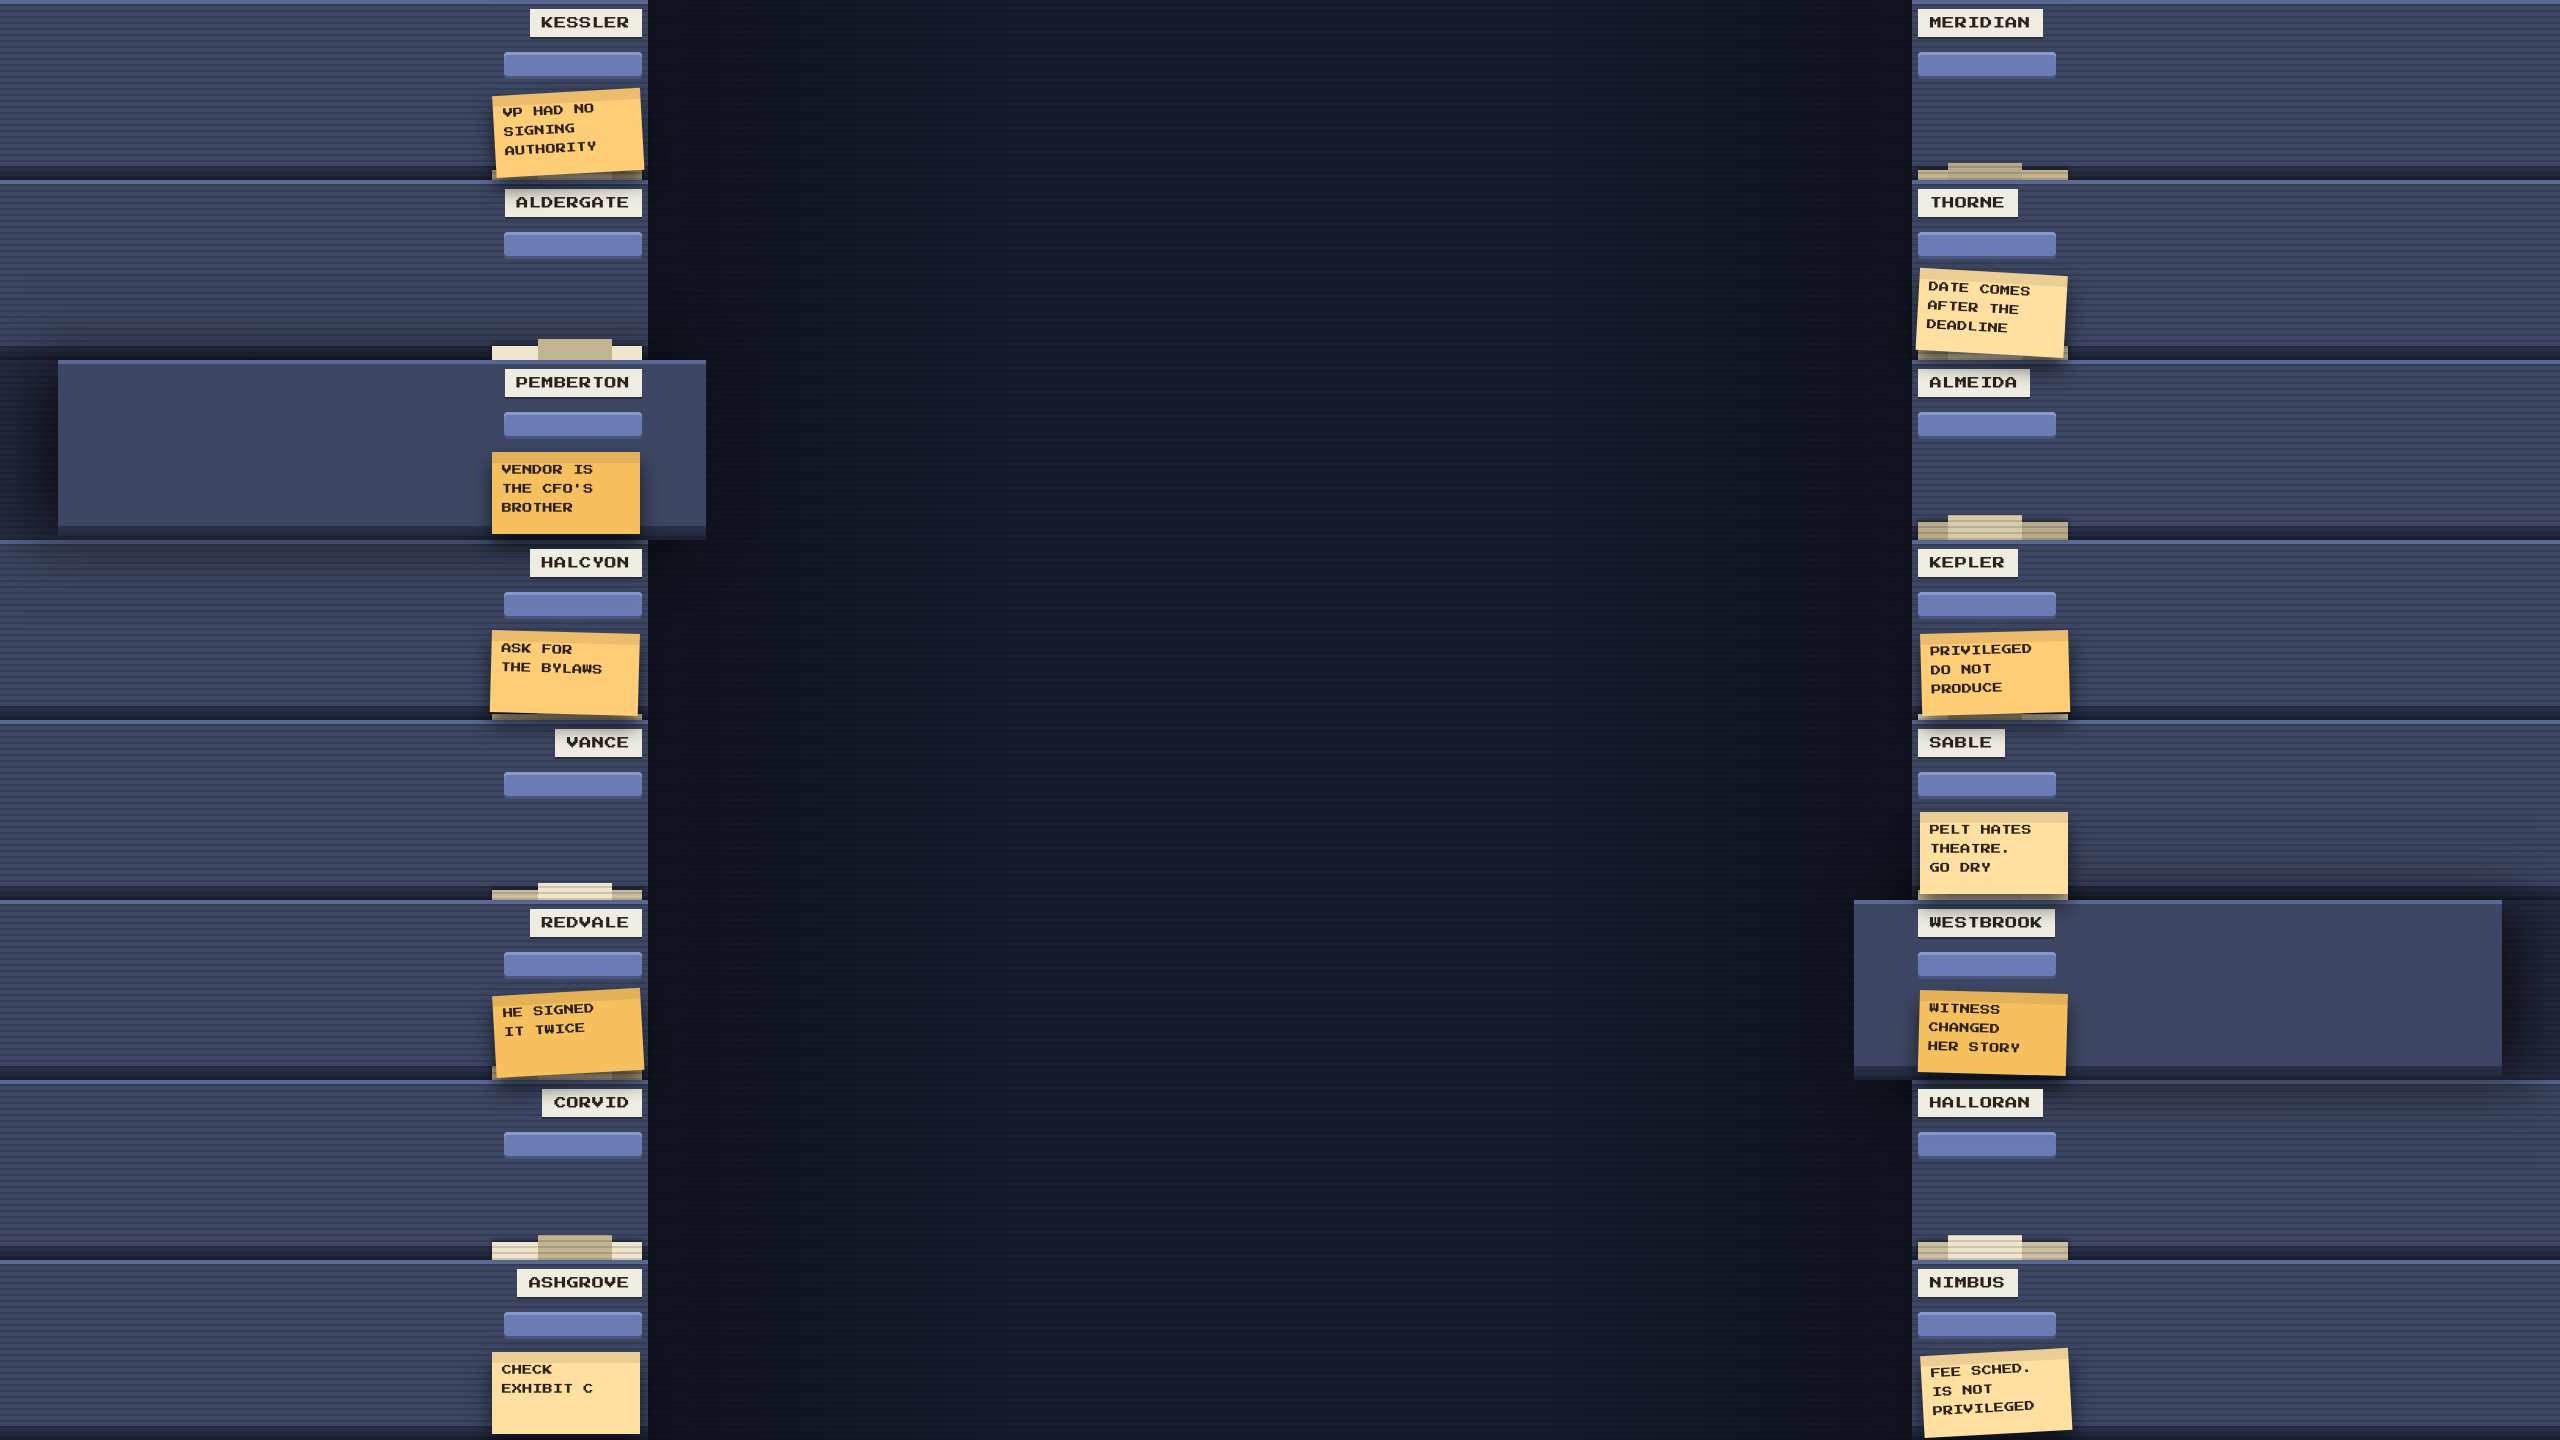
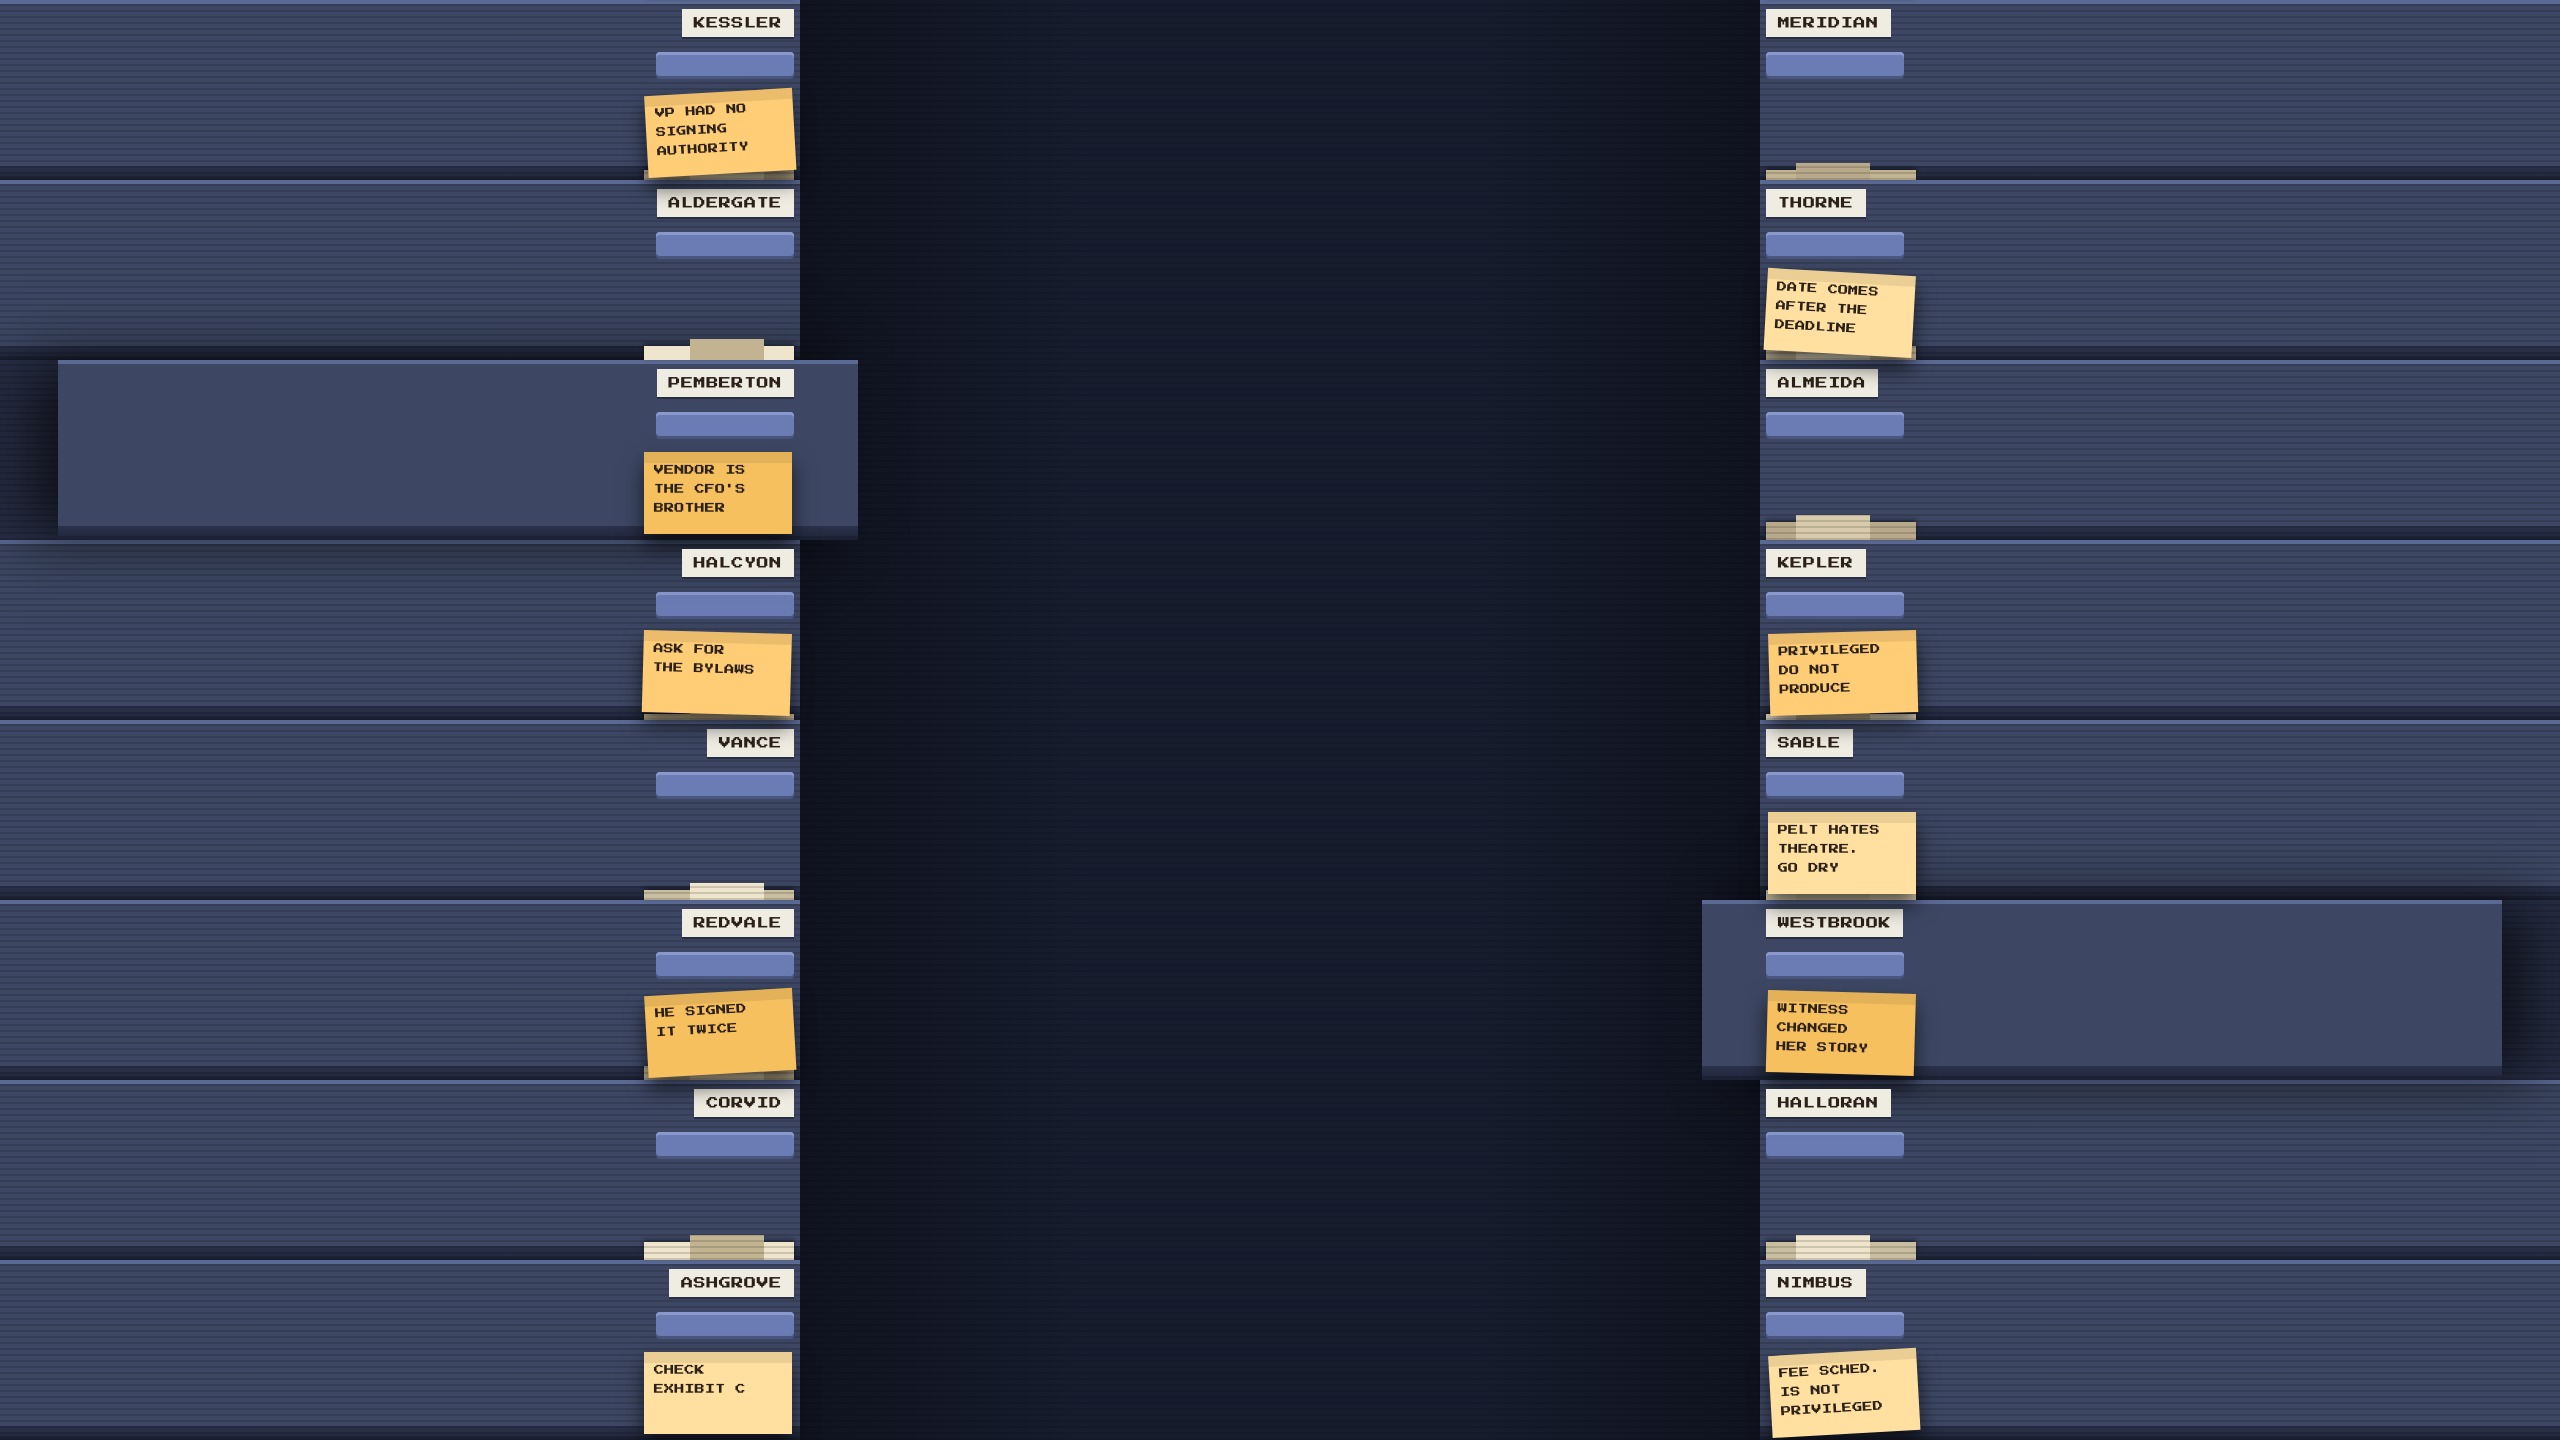
store: the panel is 960, not 1265
The background still sat wrong because I had the panel's width wrong, and I had
it wrong because I read pixels off a screenshot as if it were 1:1. Calibrating
against something known in the art instead: the drawer pitch is 180 in the
source and measured 238 on screen, so that screenshot was at 1.32x and its
"1265px panel" was really 960 — itch's standard column.

So the panel's edge is at image x 800, not 647, and everything in the gutter was
sitting 150px too far out. Moved. At 150px wide hugging x 800 it now holds all
the way down to a 1280 window, where the gutter is exactly 160px a side.

Changed region(s): [[0.6562, 0.0, 0.8125, 1.0], [0.1875, 0.0, 0.3438, 1.0]]

diff --git a/assets/store/ITCH.md b/assets/store/ITCH.md
@@ -107,16 +107,18 @@ something the art can be fixed to survive.
 
 Two other measurements matter and both were wrong in the first pages:
 
-- **The panel is 1265 CSS px, not 960.** itch puts the screenshots in a sub-column
-  inside the same white panel, so it is far wider than a text column. Measured off
-  the live page.
+- **The panel is 960 CSS px** — itch's standard column. An earlier "1265" came from
+  reading pixels off a screenshot as if it were 1:1. Calibrate instead against a
+  known quantity in the art: the drawer pitch is 180 in the source and measured 238
+  on screen, so that screenshot was at 1.32x and its panel was really 960.
 - **The gutter shrinks as the window shrinks, and the panel does not.** At natural
   size the image is centred, so a window `V` wide shows image x `1280 ± V/2` while the
-  panel always covers `1280 ± 633`. The gutter is the difference: ~230px at a 1730
-  window, ~170px at 1600, nothing at all below ~1290.
+  panel always covers `1280 ± 480`, so its edge is at image x 800. The gutter is the
+  difference: 240px at a 1440 window, 160px at 1280, nothing below 960.
 - **And it is cut from the outside in.** The first version put its labels at the
-  cabinet's outer edge, so a 1730 window ate the front of every word — KESSLER came
-  out as SLER. Everything now hugs the panel edge and is at most 150px wide.
+  cabinet's outer edge, so the window ate the front of every word — KESSLER came out
+  as SLER. Everything now hugs image x 800 and is at most 150px wide, which holds
+  down to a 1280 window.
 
 `scripts/store-cabinets.mjs` renders three variants built around all of this: a wall
 of drawers too full to sit flush, with post-its on some of them. The notes carry the
